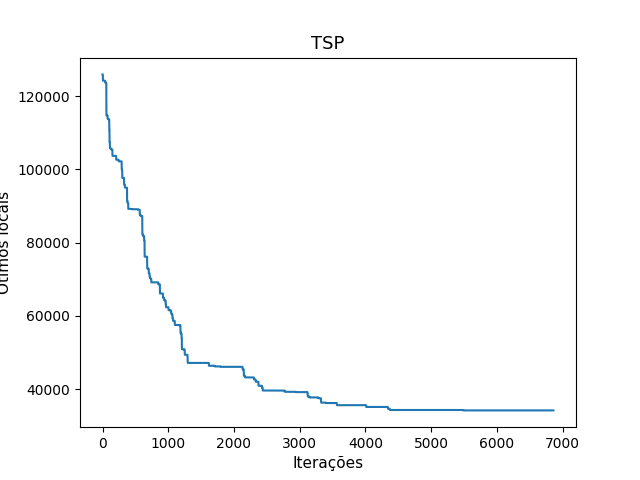
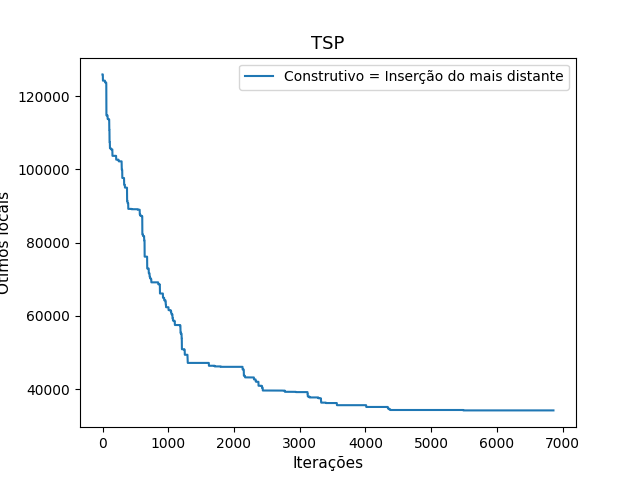
plotando gráficos....(correções)

Changed region(s): [[0.4375, 0.125, 0.875, 0.1875], [0.375, 0.1562, 0.4062, 0.1875]]

diff --git a/PCV/aux.py b/PCV/aux.py
@@ -1,6 +1,5 @@
 # -*- coding: utf-8 -*-
 import matplotlib.pyplot as plt
-import numpy as np
 
 localLen = len
 
@@ -11,17 +10,18 @@ def printgraph(graph):
         print('\n'.join("{}: {}".format(k, v) for k, v in graph[i].items()))
 
 
+########################################################################################################################
+
 def plot_graf(opt_values, counter_values, name):
-    opt_values.reverse()
     # print("otimos locais {}".format(opt_values))
     # print("i {}".format(counter_values))
-    opt_values.reverse()
     plt.axis('auto')
     plt.title("TSP", fontsize=13)
     plt.xlabel("Iterações", fontsize=11)
     plt.ylabel("Ótimos locais", fontsize=11)
     plt.plot(counter_values, opt_values, label=f'Construtivo = {name}')
-    plt.legend()
-    # plt.savefig('fig.png')
+    # plt.scatter(counter_values, opt_values, marker="+", color='red')
+    plt.legend(loc='best')
+    plt.savefig('fig.png')
     plt.show()
     # print(route)

diff --git a/PCV/main.py b/PCV/main.py
@@ -102,7 +102,7 @@ if __name__ == '__main__':
 
 
         elif args.algoritmo_melhorativo == 'none':
-            sumdistance(graph, route)
+            print(sumdistance(graph, route))
         else:
             print("{} não é um argumento válido!\n".format(args.algoritmo_melhorativo))
     else:
